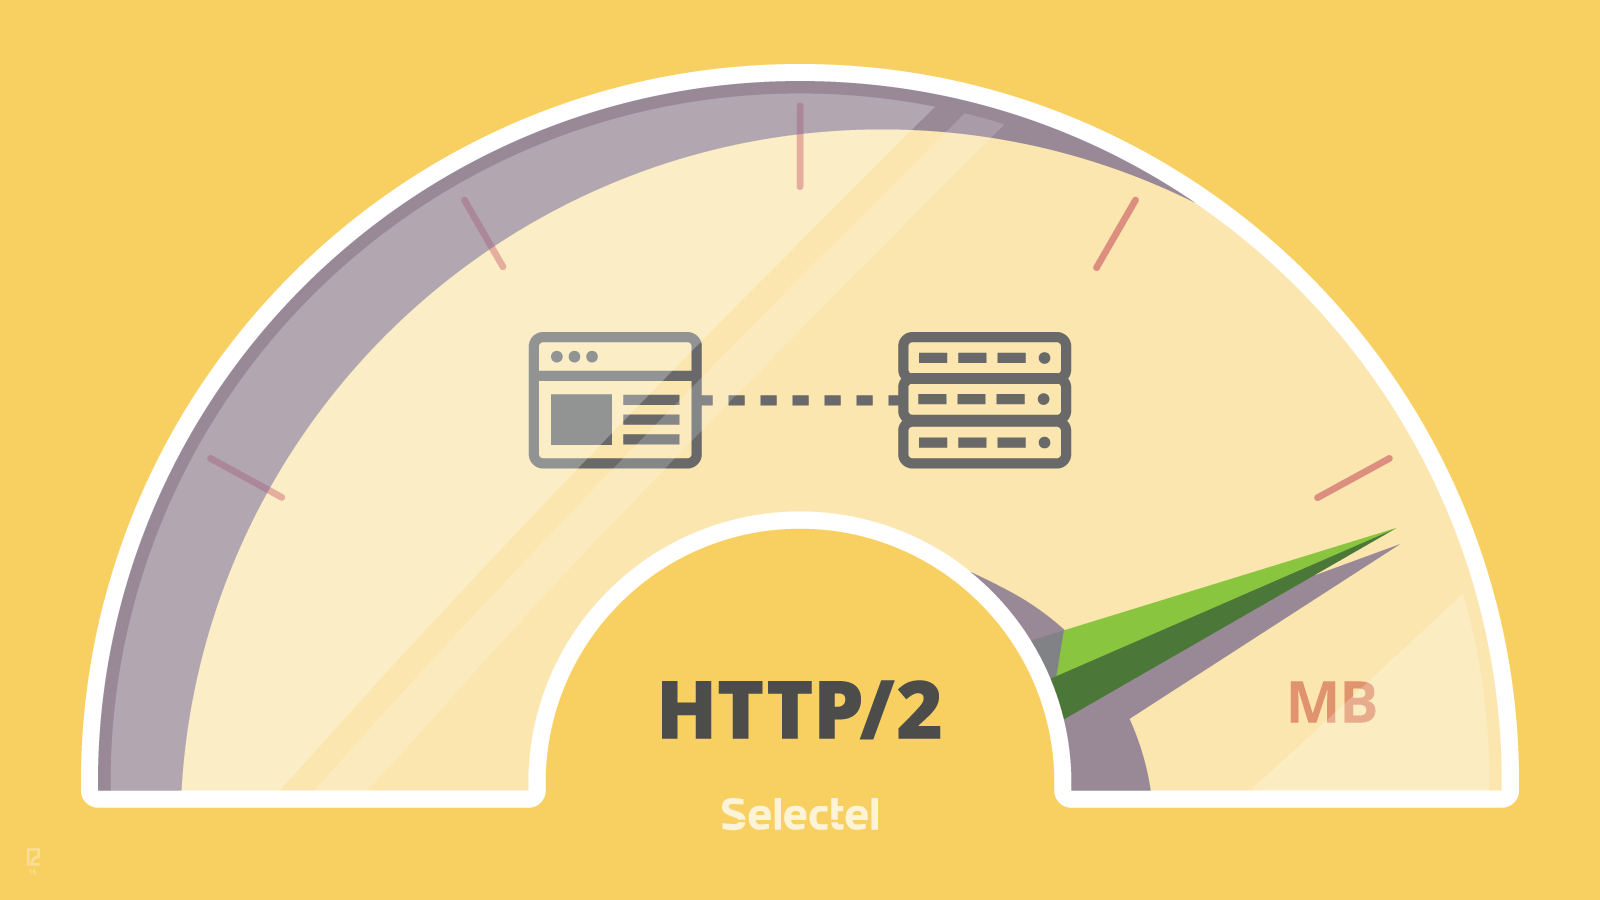
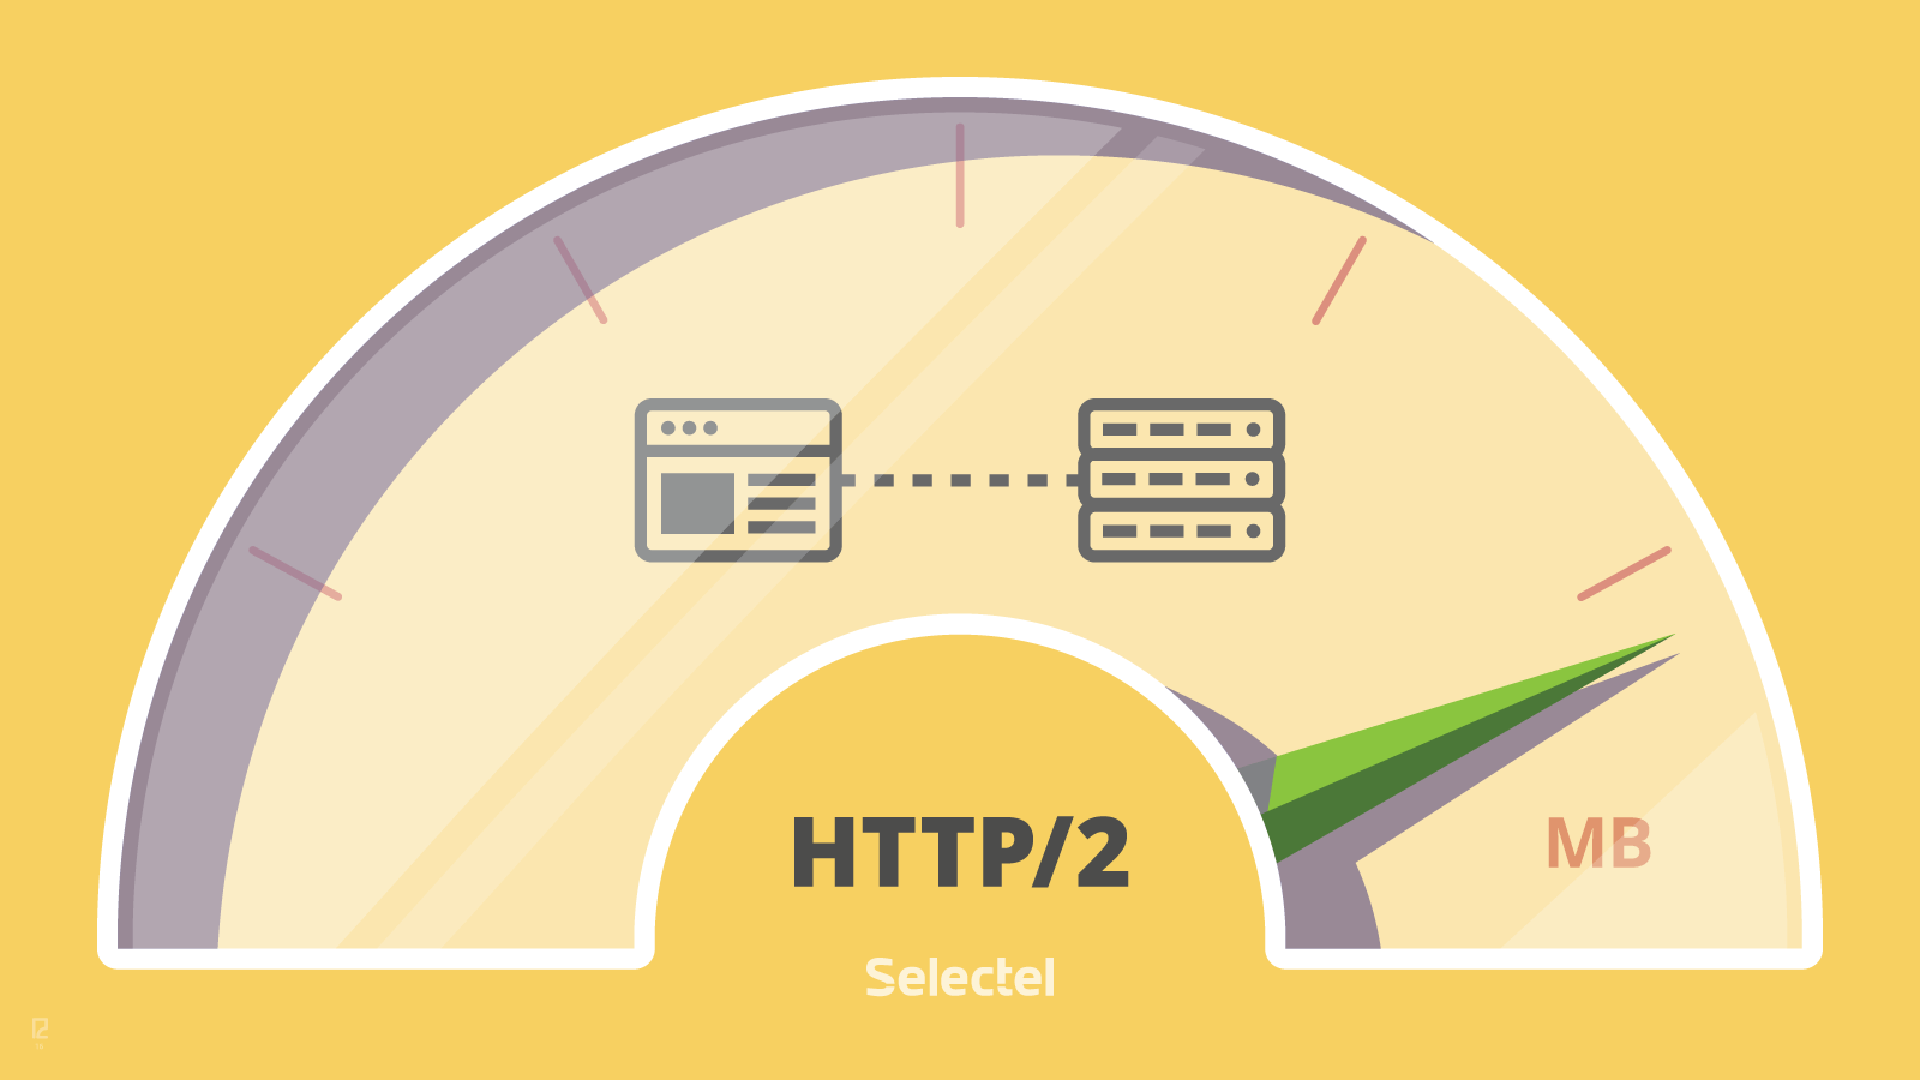
更新文章

Changed region(s): [[0.5938, 0.4667, 0.625, 0.4978], [0.5938, 0.3733, 0.625, 0.4044]]

diff --git a/contents/Protocol/HTTP:2_RFC7540.md b/contents/Protocol/HTTP:2_RFC7540.md
@@ -2,89 +2,89 @@
 
 
 <p align='center'>
-<img src='https://img.halfrost.com/Blog/ArticleImage/117_0.png'>
+<img src='https://img.halfrost.com/Blog/ArticleImage/129_0.png'>
 </p>
 
 
 ## Table of Contents
 
-## 1. [Introduction]()
+## 1. [Introduction](https://github.com/halfrost/Halfrost-Field/blob/master/contents/Protocol/HTTP:2-begin.md#%E8%A7%A3%E5%BC%80-http2-%E7%9A%84%E9%9D%A2%E7%BA%B1http2-%E6%98%AF%E5%A6%82%E4%BD%95%E5%BB%BA%E7%AB%8B%E8%BF%9E%E6%8E%A5%E7%9A%84)
    
-## 2. [HTTP/2 Protocol Overview]()
+## 2. HTTP/2 Protocol Overview
 
-- 2.1. [Document Organization]()  
-- 2.2. [Conventions and Terminology]()  
+- 2.1. [Document Organization](https://github.com/halfrost/Halfrost-Field/blob/master/contents/Protocol/HTTP:2-begin.md#%E4%B8%80-http2-protocol-overview)  
+- 2.2. [Conventions and Terminology](https://github.com/halfrost/Halfrost-Field/blob/master/contents/Protocol/HTTP:2-begin.md#%E4%B8%80-http2-protocol-overview)  
    
 ## 3. Starting HTTP/2
 
-- 3.1. [HTTP/2 Version Identification]()
-- 3.2. [Starting HTTP/2 for "http" URIs]()
-- 3.2.1 [HTTP2-Settings Header Field]()  
-- 3.3. [Starting HTTP/2 for "https" URIs]()
-- 3.4. [Starting HTTP/2 with Prior Knowledge]()
-- 3.5. [HTTP/2 Connection Preface]() 
+- 3.1. [HTTP/2 Version Identification](https://github.com/halfrost/Halfrost-Field/blob/master/contents/Protocol/HTTP:2-begin.md#1-http2-version-identification)
+- 3.2. [Starting HTTP/2 for "http" URIs](https://github.com/halfrost/Halfrost-Field/blob/master/contents/Protocol/HTTP:2-begin.md#2-starting-http2-for-http-uris)
+- 3.2.1 [HTTP2-Settings Header Field](https://github.com/halfrost/Halfrost-Field/blob/master/contents/Protocol/HTTP:2-begin.md#3-http2-settings-header-field)  
+- 3.3. [Starting HTTP/2 for "https" URIs](https://github.com/halfrost/Halfrost-Field/blob/master/contents/Protocol/HTTP:2-begin.md#4-starting-http2-for-https-uris)
+- 3.4. [Starting HTTP/2 with Prior Knowledge](https://github.com/halfrost/Halfrost-Field/blob/master/contents/Protocol/HTTP:2-begin.md#5-starting-http2-with-prior-knowledge)
+- 3.5. [HTTP/2 Connection Preface](https://github.com/halfrost/Halfrost-Field/blob/master/contents/Protocol/HTTP:2-begin.md#6-http2-connection-preface) 
   
   
 ## 4. HTTP Frames 
 
-- 4.1. [Frame Format]()    
-- 4.2. [Frame Size]()
-- 4.3. [Header Compression and Decompression]()
+- 4.1. [Frame Format](https://github.com/halfrost/Halfrost-Field/blob/master/contents/Protocol/HTTP:2-HTTP-Frames.md#%E4%B8%80-frame-format-%E5%B8%A7%E6%A0%BC%E5%BC%8F)    
+- 4.2. [Frame Size](https://github.com/halfrost/Halfrost-Field/blob/master/contents/Protocol/HTTP:2-HTTP-Frames.md#%E4%BA%8C-frame-size-%E5%B8%A7%E5%A4%A7%E5%B0%8F)
+- 4.3. [Header Compression and Decompression](https://github.com/halfrost/Halfrost-Field/blob/master/contents/Protocol/HTTP:2-HTTP-Frames.md#%E4%B8%89-header-compression-and-decompression)
    
 ## 5. Streams and Multiplexing
 
-- 5.1. [Stream States]()   
-- 5.1.1. [Stream Identifiers]() 
-- 5.1.2. [Stream Concurrency]() 
-- 5.2. [Flow Control]()
-- 5.2.1. [Flow-Control Principles]() 
-- 5.2.2. [Appropriate Use of Flow Control]()   
-- 5.3. [Stream Priority]()
-- 5.3.1. [Stream Dependencies]()
-- 5.3.2. [Dependency Weighting]()
-- 5.3.3. [Reprioritization]()
-- 5.3.4. [Prioritization State Management]()
-- 5.3.5. [Default Priorities]()
-- 5.4. [Error Handling]()
-- 5.4.1. [Connection Error Handling]()
-- 5.4.2. [Stream Error Handling]()
-- 5.4.3. [Connection Termination]()   
-- 5.5. [Extending HTTP/2]()   
+- 5.1. [Stream States](https://github.com/halfrost/Halfrost-Field/blob/master/contents/Protocol/HTTP:2-HTTP-Frames.md#%E5%9B%9B-stream-%E6%B5%81%E7%8A%B6%E6%80%81%E6%9C%BA)   
+- 5.1.1. [Stream Identifiers](https://github.com/halfrost/Halfrost-Field/blob/master/contents/Protocol/HTTP:2-HTTP-Frames.md#1-stream-%E6%A0%87%E8%AF%86%E7%AC%A6) 
+- 5.1.2. [Stream Concurrency](https://github.com/halfrost/Halfrost-Field/blob/master/contents/Protocol/HTTP:2-HTTP-Frames.md#2-stream-%E5%B9%B6%E5%8F%91) 
+- 5.2. [Flow Control](https://github.com/halfrost/Halfrost-Field/blob/master/contents/Protocol/HTTP:2-HTTP-Frames.md#%E4%BA%94-%E6%B5%81%E9%87%8F%E6%8E%A7%E5%88%B6)
+- 5.2.1. [Flow-Control Principles](https://github.com/halfrost/Halfrost-Field/blob/master/contents/Protocol/HTTP:2-HTTP-Frames.md#1-%E6%B5%81%E9%87%8F%E6%8E%A7%E5%88%B6%E5%8E%9F%E5%88%99) 
+- 5.2.2. [Appropriate Use of Flow Control](https://github.com/halfrost/Halfrost-Field/blob/master/contents/Protocol/HTTP:2-HTTP-Frames.md#2-%E9%80%82%E5%BD%93%E7%9A%84%E4%BD%BF%E7%94%A8%E6%B5%81%E9%87%8F%E6%8E%A7%E5%88%B6)   
+- 5.3. [Stream Priority](https://github.com/halfrost/Halfrost-Field/blob/master/contents/Protocol/HTTP:2-HTTP-Frames.md#%E5%85%AD-stream-%E4%BC%98%E5%85%88%E7%BA%A7)
+- 5.3.1. [Stream Dependencies](https://github.com/halfrost/Halfrost-Field/blob/master/contents/Protocol/HTTP:2-HTTP-Frames.md#1-stream-%E4%BE%9D%E8%B5%96)
+- 5.3.2. [Dependency Weighting](https://github.com/halfrost/Halfrost-Field/blob/master/contents/Protocol/HTTP:2-HTTP-Frames.md#2-%E4%BE%9D%E8%B5%96%E6%9D%83%E9%87%8D)
+- 5.3.3. [Reprioritization](https://github.com/halfrost/Halfrost-Field/blob/master/contents/Protocol/HTTP:2-HTTP-Frames.md#3-%E4%BC%98%E5%85%88%E7%BA%A7%E8%B0%83%E6%95%B4)
+- 5.3.4. [Prioritization State Management](https://github.com/halfrost/Halfrost-Field/blob/master/contents/Protocol/HTTP:2-HTTP-Frames.md#4-%E4%BC%98%E5%85%88%E7%BA%A7%E7%9A%84%E7%8A%B6%E6%80%81%E7%AE%A1%E7%90%86)
+- 5.3.5. [Default Priorities](https://github.com/halfrost/Halfrost-Field/blob/master/contents/Protocol/HTTP:2-HTTP-Frames.md#5-%E9%BB%98%E8%AE%A4%E4%BC%98%E5%85%88%E7%BA%A7)
+- 5.4. [Error Handling](https://github.com/halfrost/Halfrost-Field/blob/master/contents/Protocol/HTTP:2-HTTP-Frames.md#%E4%B8%83-%E9%94%99%E8%AF%AF%E5%A4%84%E7%90%86)
+- 5.4.1. [Connection Error Handling](https://github.com/halfrost/Halfrost-Field/blob/master/contents/Protocol/HTTP:2-HTTP-Frames.md#1-%E8%BF%9E%E6%8E%A5%E9%94%99%E8%AF%AF%E7%9A%84%E9%94%99%E8%AF%AF%E5%A4%84%E7%90%86)
+- 5.4.2. [Stream Error Handling](https://github.com/halfrost/Halfrost-Field/blob/master/contents/Protocol/HTTP:2-HTTP-Frames.md#2-%E6%B5%81%E9%94%99%E8%AF%AF%E7%9A%84%E9%94%99%E8%AF%AF%E5%A4%84%E7%90%86)
+- 5.4.3. [Connection Termination](https://github.com/halfrost/Halfrost-Field/blob/master/contents/Protocol/HTTP:2-HTTP-Frames.md#3-%E8%BF%9E%E6%8E%A5%E7%BB%88%E6%AD%A2)   
+- 5.5. [Extending HTTP/2](https://github.com/halfrost/Halfrost-Field/blob/master/contents/Protocol/HTTP:2-HTTP-Frames.md#%E5%85%AB-http2-%E4%B8%AD%E7%9A%84%E6%89%A9%E5%B1%95)   
 
 ## 6. Frame Definitions
 
-- 6.1. [DATA]()   
-- 6.2. [HEADERS]()   
-- 6.3. [PRIORITY]()  
-- 6.4. [RST\_STREAM]()  
-- 6.5. [SETTINGS]()
-- 6.5.1 [SETTINGS Format]()
-- 6.5.2 [Defined SETTINGS Parameters]()
-- 6.5.3 [Settings Synchronization]()
-- 6.6. [PUSH\_PROMISE]()   
-- 6.7. [PING]()  
-- 6.8. [GOAWAY]()  
-- 6.9. [WINDOW\_UPDATE]()
-- 6.9.1 [The Flow-Control Window]()
-- 6.9.2 [Initial Flow-Control Window Size]()
-- 6.9.3 [Reducing the Stream Window Size]()
-- 6.10. [CONTINUATION]()   
+- 6.1. [DATA](https://github.com/halfrost/Halfrost-Field/blob/master/contents/Protocol/HTTP:2-HTTP-Frames-Definitions.md#%E4%B8%80-data-%E5%B8%A7)   
+- 6.2. [HEADERS](https://github.com/halfrost/Halfrost-Field/blob/master/contents/Protocol/HTTP:2-HTTP-Frames-Definitions.md#%E4%BA%8C-headers-%E5%B8%A7)   
+- 6.3. [PRIORITY](https://github.com/halfrost/Halfrost-Field/blob/master/contents/Protocol/HTTP:2-HTTP-Frames-Definitions.md#%E4%B8%89-priority-%E5%B8%A7)  
+- 6.4. [RST\_STREAM](https://github.com/halfrost/Halfrost-Field/blob/master/contents/Protocol/HTTP:2-HTTP-Frames-Definitions.md#%E5%9B%9B-rst_stream-%E5%B8%A7)  
+- 6.5. [SETTINGS](https://github.com/halfrost/Halfrost-Field/blob/master/contents/Protocol/HTTP:2-HTTP-Frames-Definitions.md#%E4%BA%94-settings-%E5%B8%A7)
+- 6.5.1 [SETTINGS Format](https://github.com/halfrost/Halfrost-Field/blob/master/contents/Protocol/HTTP:2-HTTP-Frames-Definitions.md#1-settings-format)
+- 6.5.2 [Defined SETTINGS Parameters](https://github.com/halfrost/Halfrost-Field/blob/master/contents/Protocol/HTTP:2-HTTP-Frames-Definitions.md#2-defined-settings-parameters)
+- 6.5.3 [Settings Synchronization](https://github.com/halfrost/Halfrost-Field/blob/master/contents/Protocol/HTTP:2-HTTP-Frames-Definitions.md#3-settings-synchronization)
+- 6.6. [PUSH\_PROMISE](https://github.com/halfrost/Halfrost-Field/blob/master/contents/Protocol/HTTP:2-HTTP-Frames-Definitions.md#%E5%85%AD-push_promise-%E5%B8%A7)   
+- 6.7. [PING](https://github.com/halfrost/Halfrost-Field/blob/master/contents/Protocol/HTTP:2-HTTP-Frames-Definitions.md#%E4%B8%83-ping-%E5%B8%A7)  
+- 6.8. [GOAWAY](https://github.com/halfrost/Halfrost-Field/blob/master/contents/Protocol/HTTP:2-HTTP-Frames-Definitions.md#%E5%85%AB-goaway-%E5%B8%A7)  
+- 6.9. [WINDOW\_UPDATE](https://github.com/halfrost/Halfrost-Field/blob/master/contents/Protocol/HTTP:2-HTTP-Frames-Definitions.md#%E4%B9%9D-window_update-%E5%B8%A7)
+- 6.9.1 [The Flow-Control Window](https://github.com/halfrost/Halfrost-Field/blob/master/contents/Protocol/HTTP:2-HTTP-Frames-Definitions.md#1-the-flow-control-window)
+- 6.9.2 [Initial Flow-Control Window Size](https://github.com/halfrost/Halfrost-Field/blob/master/contents/Protocol/HTTP:2-HTTP-Frames-Definitions.md#2-initial-flow-control-window-size)
+- 6.9.3 [Reducing the Stream Window Size](https://github.com/halfrost/Halfrost-Field/blob/master/contents/Protocol/HTTP:2-HTTP-Frames-Definitions.md#3-reducing-the-stream-window-size)
+- 6.10. [CONTINUATION](https://github.com/halfrost/Halfrost-Field/blob/master/contents/Protocol/HTTP:2-HTTP-Frames-Definitions.md#%E5%8D%81-continuation-%E5%B8%A7)   
 
      
-## 7. Error Codes 
+## 7. [Error Codes](https://github.com/halfrost/Halfrost-Field/blob/master/contents/Protocol/HTTP:2-HTTP-Frames-Definitions.md#%E5%8D%81%E4%B8%80-error-codes) 
 
 
 ## 8. HTTP Message Exchanges
 
-- 8.1. [HTTP Request/Response Exchange]()
-- 8.1.1. [Upgrading from HTTP/2]()
-- 8.1.2. [HTTP Header Fields]()
-- 8.1.3. [Examples]()
-- 8.1.4. [Request Reliability Mechanisms in HTTP/2]() 
-- 8.2. [Server Push]()
-- 8.2.1. [Push Requests]()
-- 8.2.2. [Push Responses]()
-- 8.3. [The CONNECT Method]()   
+- 8.1. [HTTP Request/Response Exchange](https://github.com/halfrost/Halfrost-Field/blob/master/contents/Protocol/HTTP:2-HTTP-Semantics.md#%E4%B8%80-http-requestresponse-exchange)
+- 8.1.1. [Upgrading from HTTP/2](https://github.com/halfrost/Halfrost-Field/blob/master/contents/Protocol/HTTP:2-HTTP-Semantics.md#1-upgrading-from-http2)
+- 8.1.2. [HTTP Header Fields](https://github.com/halfrost/Halfrost-Field/blob/master/contents/Protocol/HTTP:2-HTTP-Semantics.md#2-http-header-fields)
+- 8.1.3. [Examples](https://github.com/halfrost/Halfrost-Field/blob/master/contents/Protocol/HTTP:2-HTTP-Semantics.md#3-examples)
+- 8.1.4. [Request Reliability Mechanisms in HTTP/2](https://github.com/halfrost/Halfrost-Field/blob/master/contents/Protocol/HTTP:2-HTTP-Semantics.md#4-request-reliability-mechanisms-in-http2) 
+- 8.2. [Server Push](https://github.com/halfrost/Halfrost-Field/blob/master/contents/Protocol/HTTP:2-HTTP-Semantics.md#%E4%BA%8C-server-push)
+- 8.2.1. [Push Requests](https://github.com/halfrost/Halfrost-Field/blob/master/contents/Protocol/HTTP:2-HTTP-Semantics.md#1-push-requests)
+- 8.2.2. [Push Responses](https://github.com/halfrost/Halfrost-Field/blob/master/contents/Protocol/HTTP:2-HTTP-Semantics.md#2-push-responses)
+- 8.3. [The CONNECT Method](https://github.com/halfrost/Halfrost-Field/blob/master/contents/Protocol/HTTP:2-HTTP-Semantics.md#%E4%B8%89-the-connect-method)   
 
 ## 9. Additional HTTP Requirements/Considerations
 

diff --git a/contents/Protocol/HTTP:2-Considerations.md b/contents/Protocol/HTTP:2-Considerations.md
@@ -1,5 +1,5 @@
 <p align='center'>
-<img src='https://img.halfrost.com/Blog/ArticleImage/128_0.png'>
+<img src='https://img.halfrost.com/Blog/ArticleImage/128_0.jpg'>
 </p>
 
 # HTTP/2 中的值得关注的问题